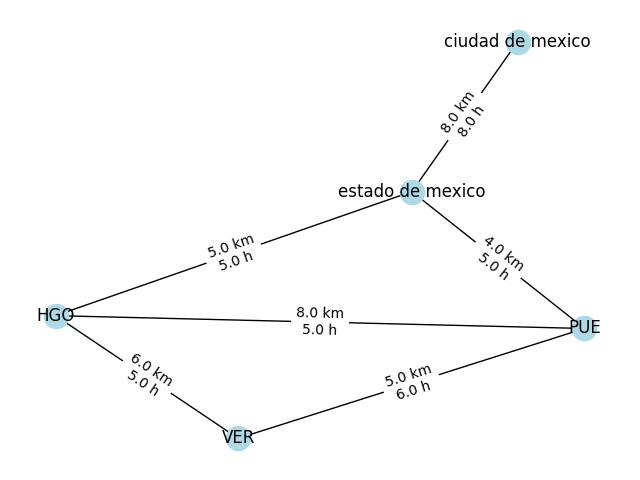
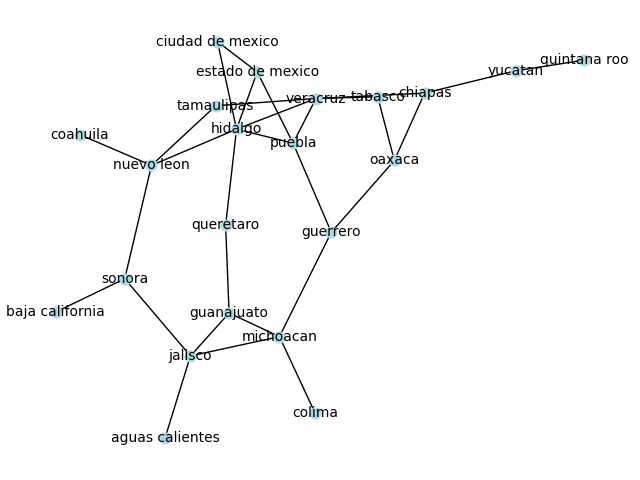
Program

diff --git a/Programa/main.py b/Programa/main.py
@@ -6,20 +6,20 @@ class main():
     def __init__(self):
         self.G=Nx.Graph()
         self.v=Tk.Tk()
-        self.v.geometry('1500x800+200+100')
+        self.v.geometry('1300x650+300+200')
         self.v.title('RouteLigic')
-        self.v.config(bg="skyblue")
+        self.v.config(bg='#404040')
         self.nodos=set()         # Cojunto para evitar nodos duplicados
         self.csv()
         self.Grafo()
         self.ventana()
         self.v.mainloop()
     def ventana(self):
-        frame=Tk.Frame(self.v); frame.grid(row=0, column=0,sticky='N',padx=1,pady=1)
+        frame=Tk.Frame(self.v, bg='#404040'); frame.grid(row=0, column=0,sticky='N',padx=1,pady=1)
         frame2=Tk.Frame(self.v); frame2.grid(row=1, column=0, columnspan=2, sticky='S',padx=1,pady=1)
         self.frame3=Tk.Frame(self.v); self.frame3.grid(row=0, column=2, rowspan=3, columnspan=4, sticky='NE',padx=5,pady=5)
 
-        self.canvas = Tk.Canvas(self.frame3, width=1200, height=700, bg='white')
+        self.canvas = Tk.Canvas(self.frame3, width=800, height=600, bg='#f8f8f8')
         self.scroll_x = Tk.Scrollbar(self.frame3, orient='horizontal', command=self.canvas.xview)
         self.scroll_y = Tk.Scrollbar(self.frame3, orient='vertical', command=self.canvas.yview)
         self.canvas.configure(xscrollcommand=self.scroll_x.set, yscrollcommand=self.scroll_y.set)
@@ -30,57 +30,56 @@ class main():
 
         opciones = sorted(self.nodos)   # Ordena los nodos en una lista ordenada
 
-        origen=Tk.Label(frame, text='Origen: ', font=('arial', 12)); origen.grid(row=0, column=1, padx=2, pady=2, sticky='E')
+        origen=Tk.Label(frame, text='Origen: ', font=('arial', 15), bg='#404040'); origen.grid(row=0, column=1, padx=2, pady=2, sticky='E')
         origen_var = Tk.StringVar()     # Lo guarda para poder usar iterar despues
         origen_var.set(opciones[0])
         i_name = Tk.OptionMenu(frame, origen_var, *opciones)
-        i_name.config(font=('arial',12), width=15); i_name.grid(row=0, column=2, padx=2, pady=2, sticky='NSEW')
+        i_name.config(font=('arial',15), width=15, bg='#722F37'); i_name.grid(row=0, column=2, padx=2, pady=2, sticky='NSEW')
         
-        destino=Tk.Label(frame, text='Destino: ', font=('arial', 12)); destino.grid(row=1, column=1, padx=2, pady=2,sticky='E')
+        destino=Tk.Label(frame, text='Destino: ', font=('arial', 15), bg='#404040'); destino.grid(row=1, column=1, padx=2, pady=2,sticky='E')
         destino_var = Tk.StringVar()
         destino_var.set(opciones[0])
         i2_name = Tk.OptionMenu(frame, destino_var, *opciones)
-        i2_name.config(font=('arial',12), width=15); i2_name.grid(row=1, column=2, padx=2, pady=2, sticky='NSEW')
+        i2_name.config(font=('arial',15), width=15, bg='#722F37'); i2_name.grid(row=1, column=2, padx=2, pady=2, sticky='NSEW')
 
-        boton = Tk.Button(frame, text='Mejor ruta', font=('arial',12), bg='#0000FF', command=lambda: self.Grafo_ruta(origen_var.get(), destino_var.get())); boton.grid(row=3, column=2, padx=2, pady=2)
+        boton = Tk.Button(frame, text='Mejor ruta', font=('arial',15), bg='#722F37', command=lambda: self.Grafo_ruta(origen_var.get(), destino_var.get())); boton.grid(row=3, column=2, padx=2, pady=2)
 
-        self.respuesta=ScrolledText(frame2, width=50, height=29, wrap='word',font=('arial',12)); self.respuesta.grid(row=3,column=1, columnspan=3,padx=2,pady=2,sticky='NSEW')
+        self.respuesta=ScrolledText(frame2, width=40, height=20, wrap='word',font=('arial',15), bg='#f8f8f8'); self.respuesta.grid(row=3,column=1, columnspan=3,padx=2,pady=2,sticky='NSEW')
         self.mostrar_imagen('grafoCompleto.png')
 
     def mostrar_imagen(self, ruta):
         imagen_original = Image.open(ruta)
-        imagen_redimensionada = imagen_original.resize((1000, 700))
-        self.image = ImageTk.PhotoImage(imagen_redimensionada)
+        self.imagen = ImageTk.PhotoImage(imagen_original.resize((800, 600)))
         self.canvas.delete("all")  # Limpia el canvas anterior
-        self.canvas.create_image(0, 0, anchor='nw', image=self.image)
+        self.canvas.create_image(0, 0, anchor='nw', image=self.imagen)
         self.canvas.config(scrollregion=self.canvas.bbox('all'))
     def csv(self):
         self.G.clear()
         with open('centros.csv', 'r') as archivo:
             f=archivo.readlines()
             for i in f[1:]:     # split(','): Divide cada dato separados por comas y los guarda en una lista
-                N1, N2, Distancia, Capacidad, Tiempo=[x.strip() for x in i.split(',')] # Da el valor a cada uno de las variables
+                N1, N2, Distancia, Capacidad, Tiempo, self.Trasporte=[x.strip() for x in i.split(',')[:6]] # Da el valor a cada uno de las variables
                 #print(N1)
                 if N1 not in self.nodos:
-                    self.G.add_node(N1, distancia=Distancia, capacidad=Capacidad)    # Crea el N1
+                    self.G.add_node(N1, distancia=Distancia, capacidad=Capacidad, trasporte=self.Trasporte)    # Crea el N1
                     self.nodos.add(N1)
                 if N2 not in self.nodos:
-                    self.G.add_node(N2, distancia=Distancia, tiempo=Tiempo)      # Crea el N2
+                    self.G.add_node(N2, distancia=Distancia, tiempo=Tiempo,trasporte=self.Trasporte)      # Crea el N2
                     self.nodos.add(N2)
-                self.G.add_edge(N1, N2, distancia=float(Distancia), tiempo=float(Tiempo))     # Hace el grafo dirigido
+                self.G.add_edge(N1, N2, distancia=float(Distancia), tiempo=float(Tiempo), trasporte=str(self.Trasporte))     # Hace el grafo dirigido
                 self.pos=Nx.spring_layout(self.G, seed=20)    # Calcula las cordenadas y mantenerlas evitando que cambien
                 self.etiquetas={(origen, destino): f"{atributo['distancia']} km\n{atributo['tiempo']} h" for origen, destino, atributo in self.G.edges(data=True)}  # Obtiene etiquetas
     def Grafo(self):
-        Nx.draw(self.G, self.pos, with_labels=True, node_color='lightblue', edge_color='black', arrows=True)   # Diseño del grafo
-        Nx.draw_networkx_edge_labels(self.G, self.pos, edge_labels=self.etiquetas) # Ver las etiquetas en el grafo
+        Nx.draw(self.G, self.pos, with_labels=True, node_color='lightblue', edge_color='black',node_size=60, font_size=10)   # Diseño del grafo
+        #Nx.draw_networkx_edge_labels(self.G, self.pos, edge_labels=self.etiquetas, font_size=8) # Ver las etiquetas en el grafo
         plt.savefig('grafoCompleto.png')  # Guardar la imagen
         plt.close()
     def Ruta(self, ruta):
         r=list(zip(ruta[:-1], ruta[1:]))
-        Nx.draw(self.G, self.pos, with_labels=True, node_color='lightgray', edge_color='lightgray', arrows=True)  # Diseño de los nodes y aristas completo
-        Nx.draw_networkx_edges(self.G, self.pos, edgelist=r, edge_color='red', width=2.5, arrows=True)    # Diseño de los nodos de la ruta
+        Nx.draw(self.G, self.pos, with_labels=True, node_color='lightgray', edge_color='lightgray',node_size=60, font_size=10)  # Diseño de los nodes y aristas completo
+        Nx.draw_networkx_edges(self.G, self.pos, edgelist=r, edge_color='red', width=2, arrows=True)    # Diseño de los nodos de la ruta
         Nx.draw_networkx_nodes(self.G, self.pos, nodelist=ruta, node_color='red')     # Diseño de las aristas de la ruta
-        Nx.draw_networkx_edge_labels(self.G, self.pos, edge_labels=self.etiquetas)
+        #Nx.draw_networkx_edge_labels(self.G, self.pos, edge_labels=self.etiquetas, font_size=8)
         plt.savefig('grafoRuta.png')  # Guardar la imagen
         plt.close()
         self.mostrar_imagen('grafoRuta.png')
@@ -91,6 +90,7 @@ class main():
                 distancia_total=sum(self.G[a][b]['distancia'] for a, b in zip(ruta[:-1], ruta[1:]))
                 tiempo_total=sum(self.G[a][b]['tiempo'] for a, b in zip(ruta[:-1], ruta[1:]))
                 self.respuesta.insert('insert', f'Ruta más corta de {origen} a {destino}:\n {" → ".join(ruta)}\n')
+                self.respuesta.insert('insert', f'Tipo de trasporte: {self.Trasporte}\n')
                 self.respuesta.insert('insert', f'Distancia total: {distancia_total} km\n')
                 self.respuesta.insert('insert', f'Tiempo total: {tiempo_total} h\n\n')
                 self.Ruta(ruta)
